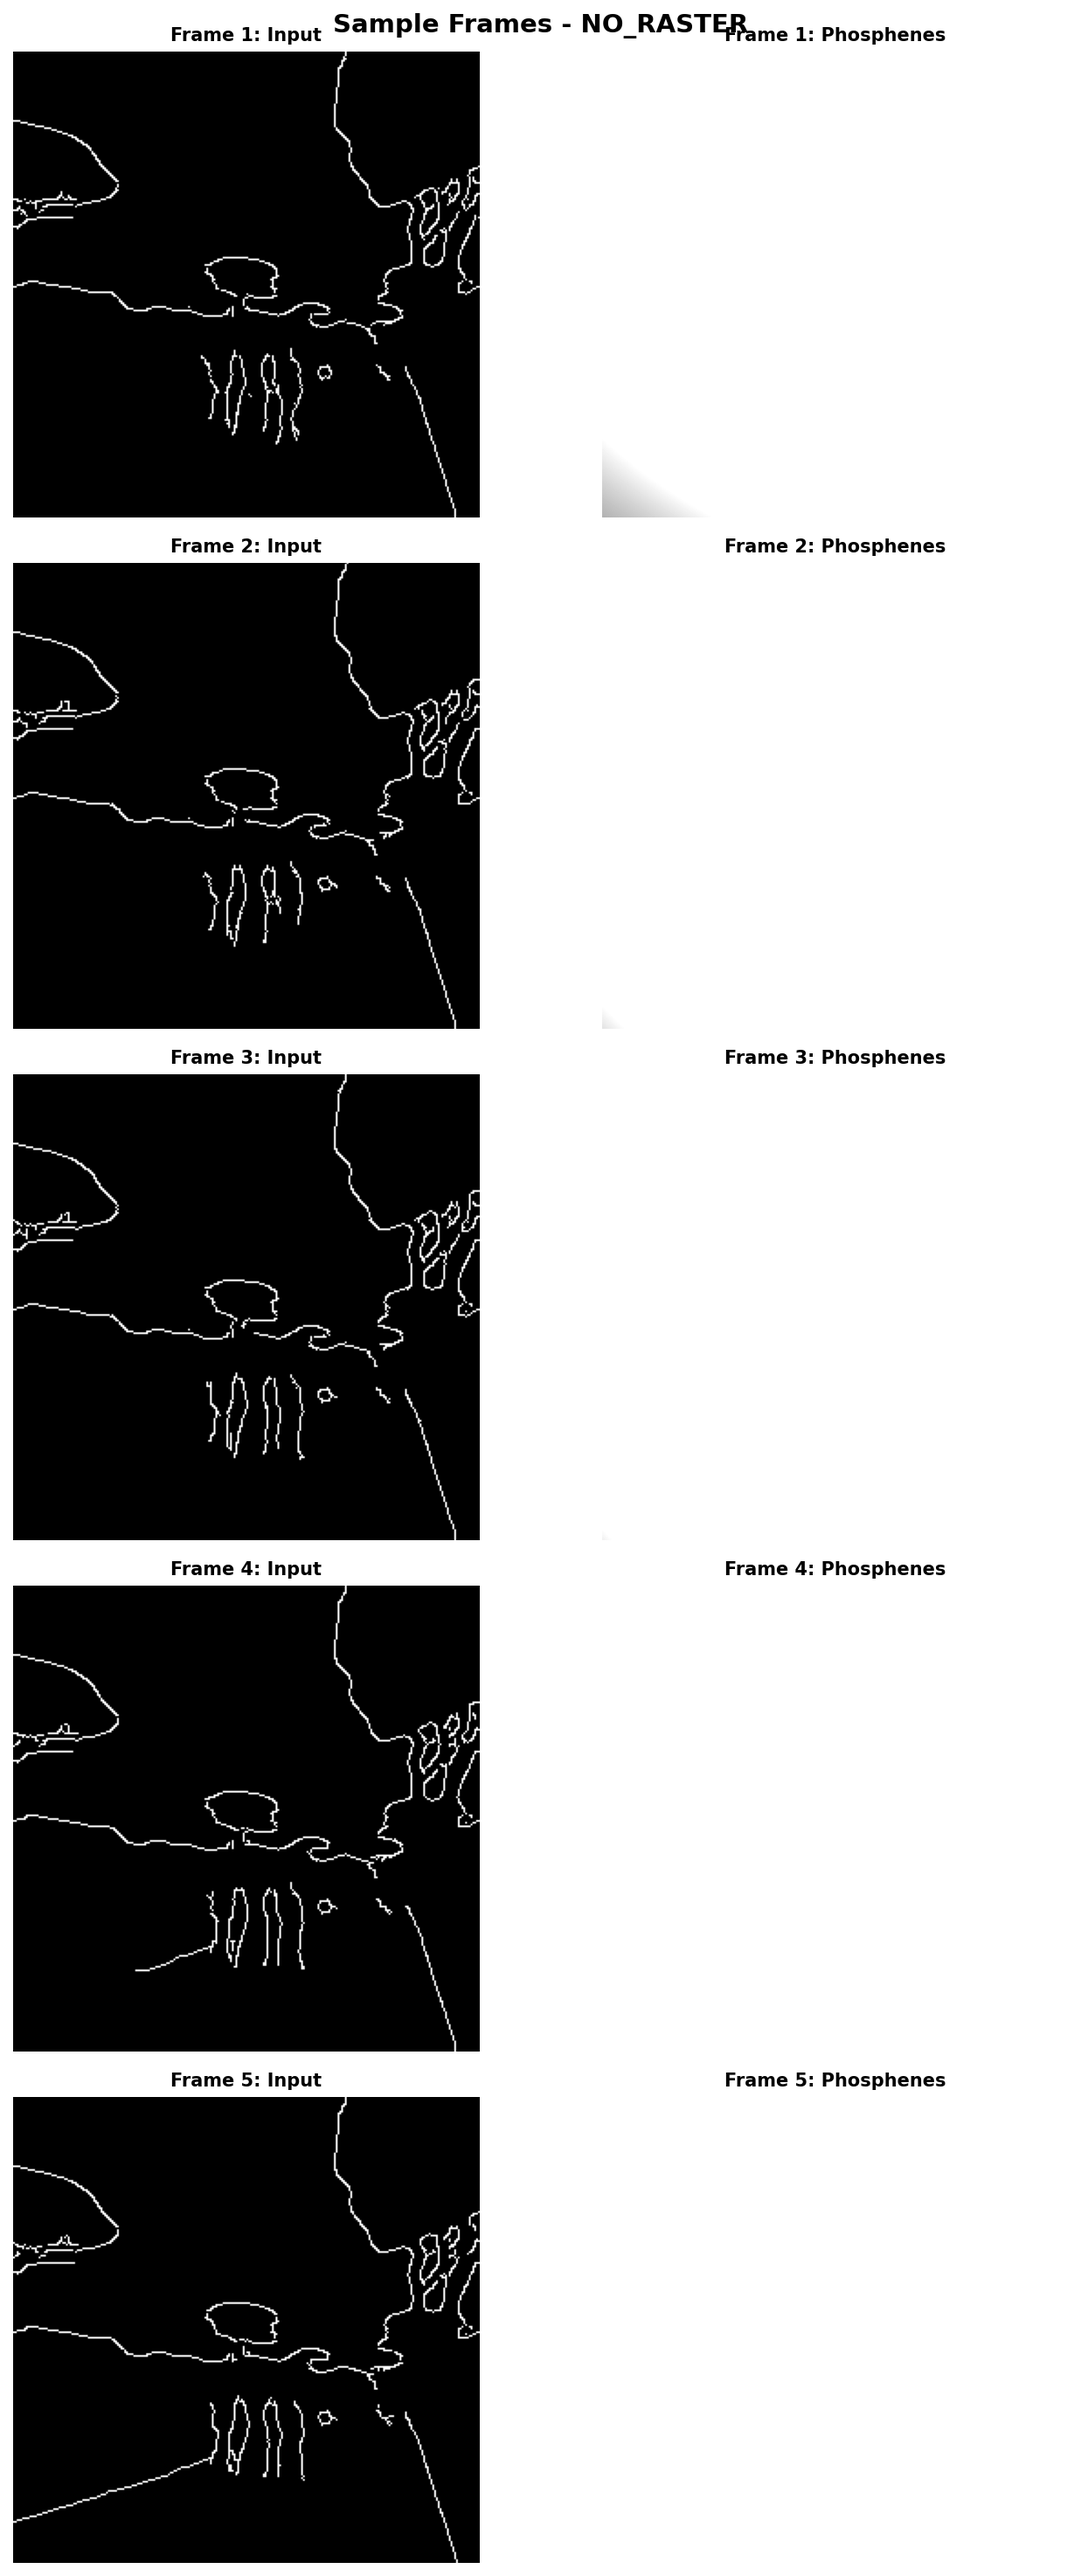
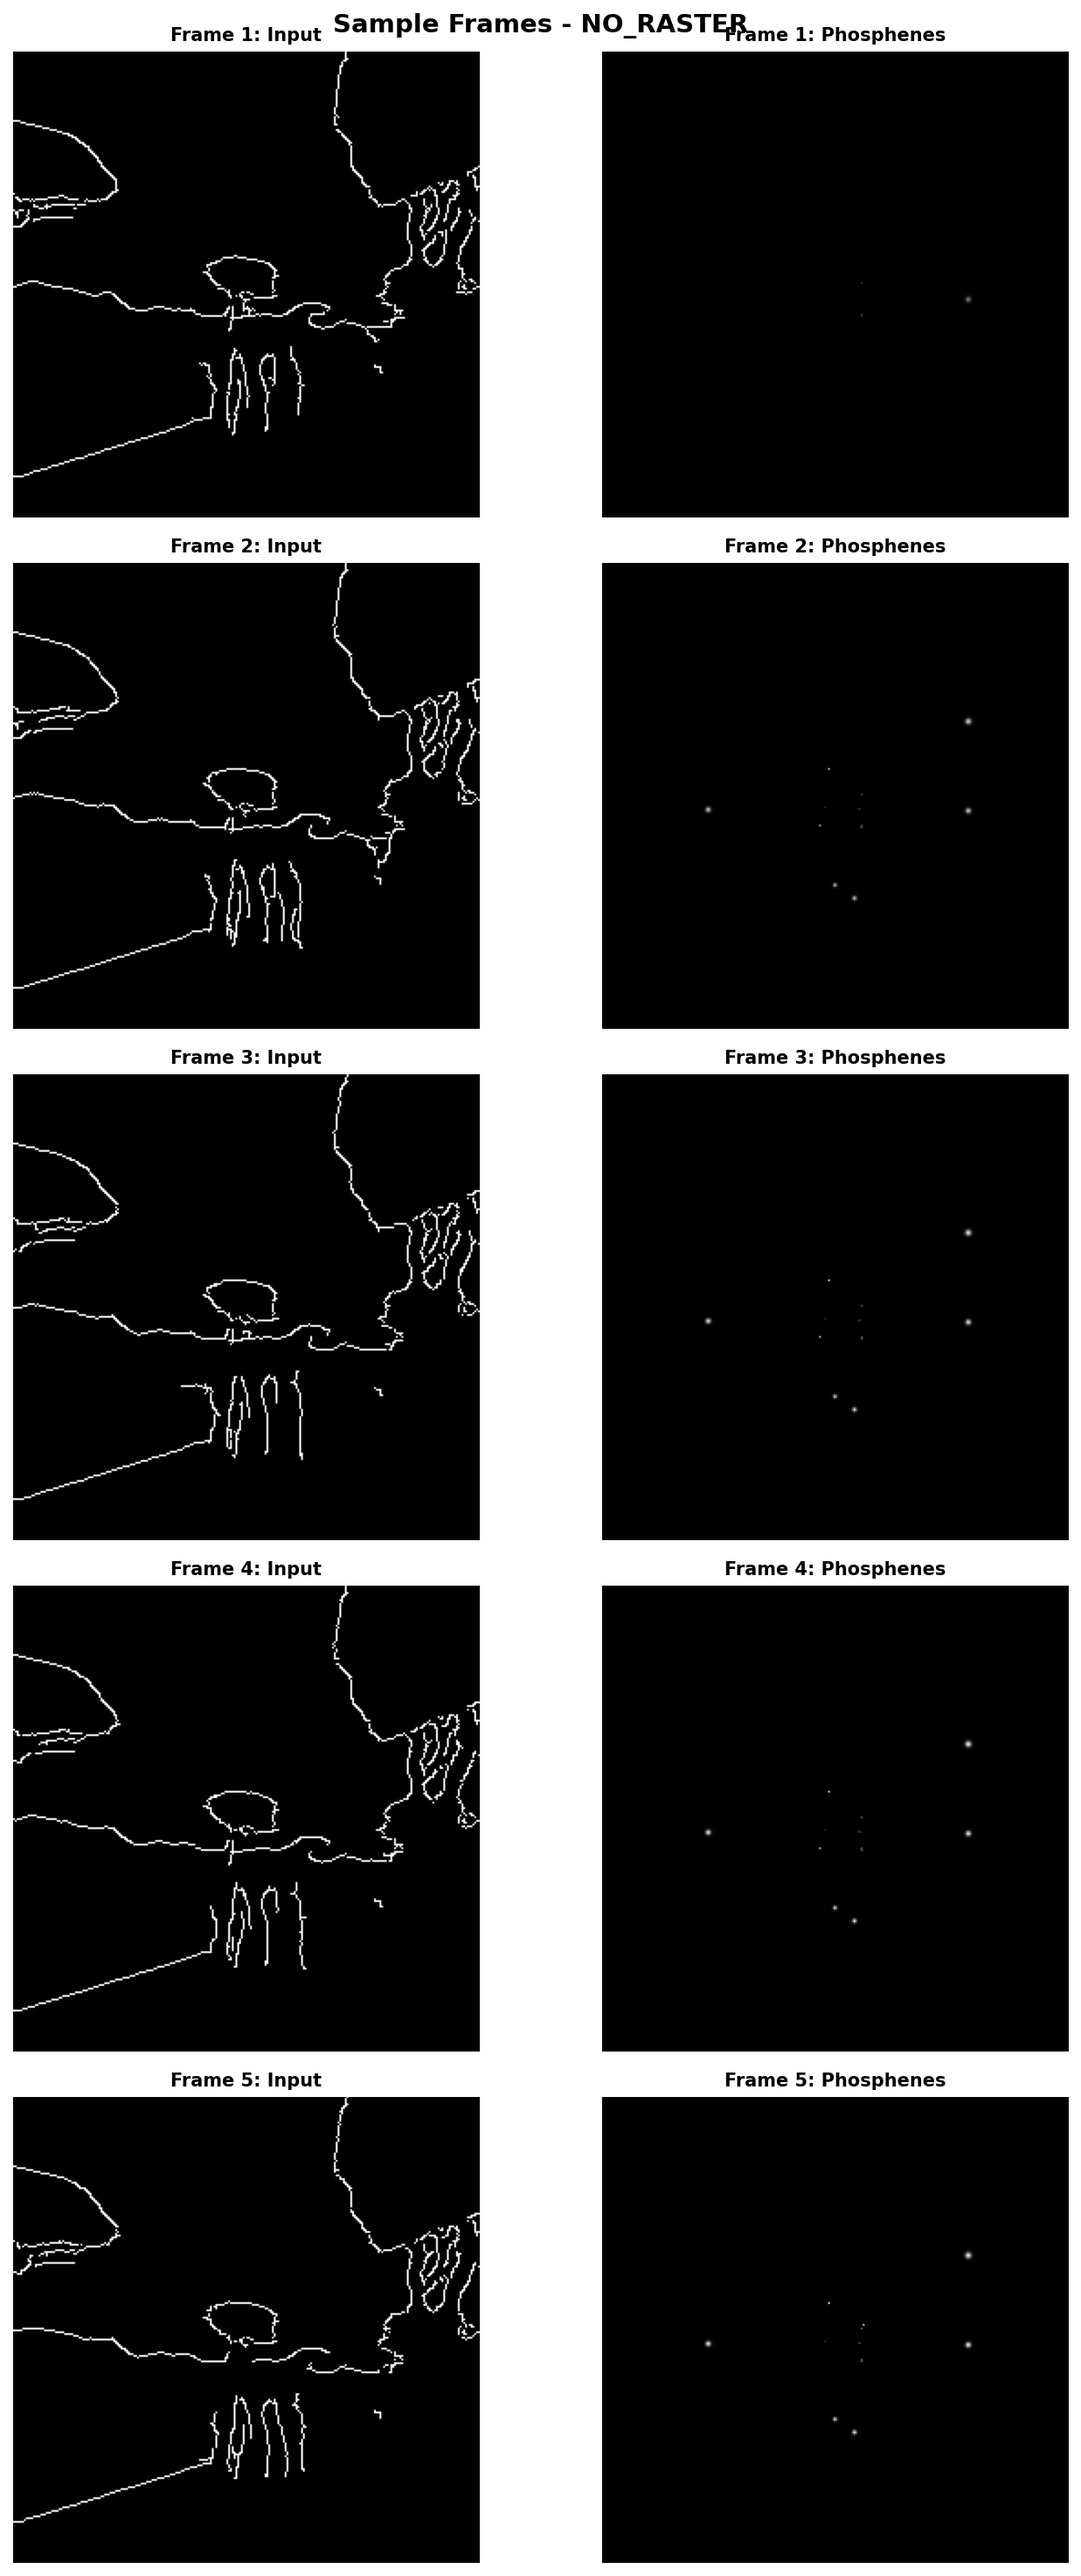
Lowers charge limit and updates test parameters
Reduces the cumulative charge limit per electrode to better match realistic safety thresholds, updating configuration and summary reports accordingly. Adjusts image preprocessing parameters and increases the number of phosphenes in tests for improved evaluation fidelity. Updates related documentation and result outputs.

Lowers charge limit and updates test parameters

Reduces cumulative charge limit per electrode to align with realistic safety standards, updating configuration and result summaries. Adjusts image preprocessing (blur kernel size) and increases the number of phosphenes in tests to improve evaluation fidelity. Refreshes documentation and output figures to reflect these changes.

diff --git a/dynaphos/simulator.py b/dynaphos/simulator.py
@@ -64,9 +64,9 @@ def create_raster_groups(
         if num_groups >= 4:
             for i in range(rows):
                 for j in range(cols):
-                    offset = (i % 2) * (num_groups // 2)
-                    group_idx = ((j % num_groups) + offset) % num_groups
-                    raster_groups[i, j] = group_idx
+                    offset = (i % 2) * (num_groups // 2) 
+                    group_idx = ((j % num_groups) + offset) % num_groups 
+                    raster_groups[i, j] = group_idx # assign group index
         else:
             # Simple checkerboard for fewer groups
             for i in range(rows):
@@ -244,28 +244,22 @@ class GaussianSimulator:
     def __init__(self, params: dict, coordinates: Map,
                  rng: Optional[np.random.Generator] = None, 
                  theta: Optional[np.ndarray] = None,
-                 # NEW PARAMETERS FOR RASTER PATTERNS
                  raster_enabled: bool = False,
                  raster_pattern: str = 'checkerboard',
                  raster_num_groups: int = 5,
                  raster_rate_hz: float = 4.5):
         """
-        Initialize a simulator with raster pattern support.
-        
-        New Parameters
-        --------------
-        raster_enabled : bool, optional
-            Whether to enable raster pattern activation. Default is False.
-        raster_pattern : str, optional
-            Type of raster pattern. Options: 'horizontal', 'vertical', 
-            'checkerboard', 'random'. Default is 'checkerboard'.
-        raster_num_groups : int, optional
-            Number of raster groups to create. Default is 5.
-        raster_rate_hz : float, optional
-            Raster cycle frequency in Hz (full array refresh rate).
-            Default is 4.5 Hz (as in Kasowski et al. 2025).
+        Initialize a simulator
+        :param params: Dictionary of simulation parameters.
+        :param coordinates: Coordinates of phosphenes.
+        :param rng: Random number generator.
+        :param theta: Orientations for gabor filtering (if 'gabor_filtering' set to True)
+        :param raster_enabled: Whether to enable raster pattern stimulation.
+        :param raster_pattern: Raster pattern type ('horizontal', 'vertical', 'checkerboard', 'random').
+        :param raster_num_groups: Number of raster groups.
+        :param raster_rate_hz: Overall raster rate in Hz.
         """
-        
+
         self.params = params
         self.data_kwargs = get_data_kwargs(self.params)
 
@@ -323,7 +317,7 @@ class GaussianSimulator:
         self.raster_group_interval_s = 1.0 / (raster_num_groups * raster_rate_hz)
         
         # Infer electrode array shape from coordinates
-        # Assume square grid for now - you may need to adjust this
+        # Assume square grid for now (approximate if necessary)
         num_electrodes = self.num_phosphenes
         grid_size = int(np.sqrt(num_electrodes))
         if grid_size * grid_size != num_electrodes:
@@ -407,7 +401,7 @@ class GaussianSimulator:
                 self.raster_frame_counter = 0
     
     def reset_cumulative_charge(self):
-        """Reset cumulative charge accounting (µC) for all electrodes."""
+        """Reset cumulative charge accounting for all electrodes."""
         self.cumulative_charge_uC.zero_()
         self._charge_guard_step = 0 
     
@@ -722,7 +716,6 @@ class GaussianSimulator:
             'group_interval_s': self.raster_group_interval_s,
             'current_group': self.current_raster_group,
             'array_shape': self.electrode_array_shape,
-            'electrodes_per_group': np.bincount(self.raster_groups_flat).tolist()
         }
     
     def _update_raster_state(self, dt: Optional[float] = None):

diff --git a/raster_tests/test_raster_patterns.py b/raster_tests/test_raster_patterns.py
@@ -139,7 +139,7 @@ class RasterPatternTester:
         """
         # Resize and blur
         frame = cv2.resize(frame, (256, 256))
-        frame = cv2.GaussianBlur(frame, (9, 9), 3)
+        frame = cv2.GaussianBlur(frame, (9, 9), 5)
 
         
         # Apply edge detection if requested
@@ -185,7 +185,7 @@ class RasterPatternTester:
         rate_hz = raster_config.get('rate_hz', 4.5)
         
         # Create simulator
-        n_phosphenes = 100
+        n_phosphenes = 1024
         phosphene_coords = cortex_models.get_visual_field_coordinates_probabilistically(
             self.params, n_phosphenes
         )
@@ -263,7 +263,6 @@ class RasterPatternTester:
             # Apply preprocessing (resize, blur, optional edge detection)
             processed_img = self.preprocess_frame(frame)
             stim_pattern = simulator.sample_stimulus(processed_img, rescale=True)
-            
             # Generate phosphenes
             phs = simulator(stim_pattern).clamp(0, 1)
             phs_np = to_numpy(phs) * 255
